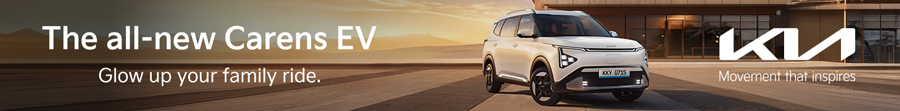
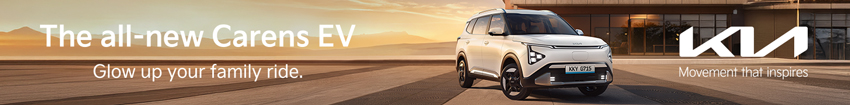
awdawd

diff --git a/idntimes/cpc/kia/index.html b/idntimes/cpc/kia/index.html
@@ -1004,7 +1004,9 @@
 											<div class="ads-scrollpage-box-billboard" style="width: 100%;">
 												<div class="ads-scrollpage-top-billboard" id="ads-scrollpage-top-billboard" style="top: 75px;">
 													<div class="ads-scrollpage-banner-billboard">
-														
+														<a href="https://www.kia.com/id/id/showroom/carens-ev/features.html?utm_source=publisher_idn&utm_medium=cons_idn_cpc&utm_campaign=carensev_launch&utm_content=img_carensev_highlight" target="_blank">
+                                                            <img src="970x250.jpg" style="max-width: 100%; height: auto;">
+                                                        </a>
 													</div>
 												</div>
 											</div>
